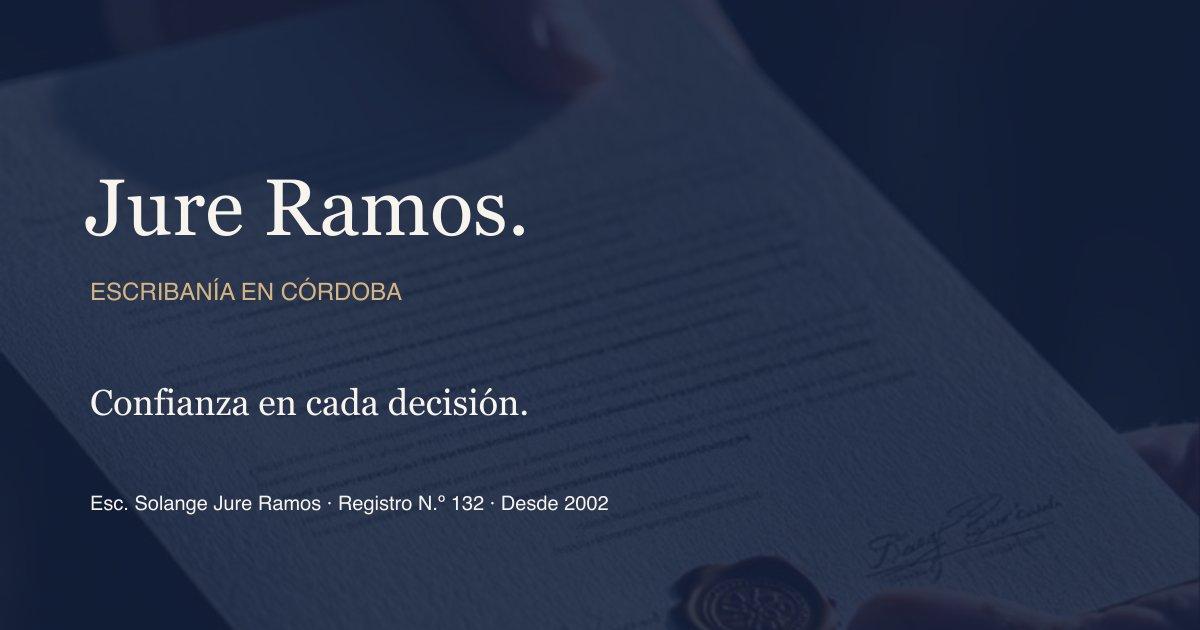
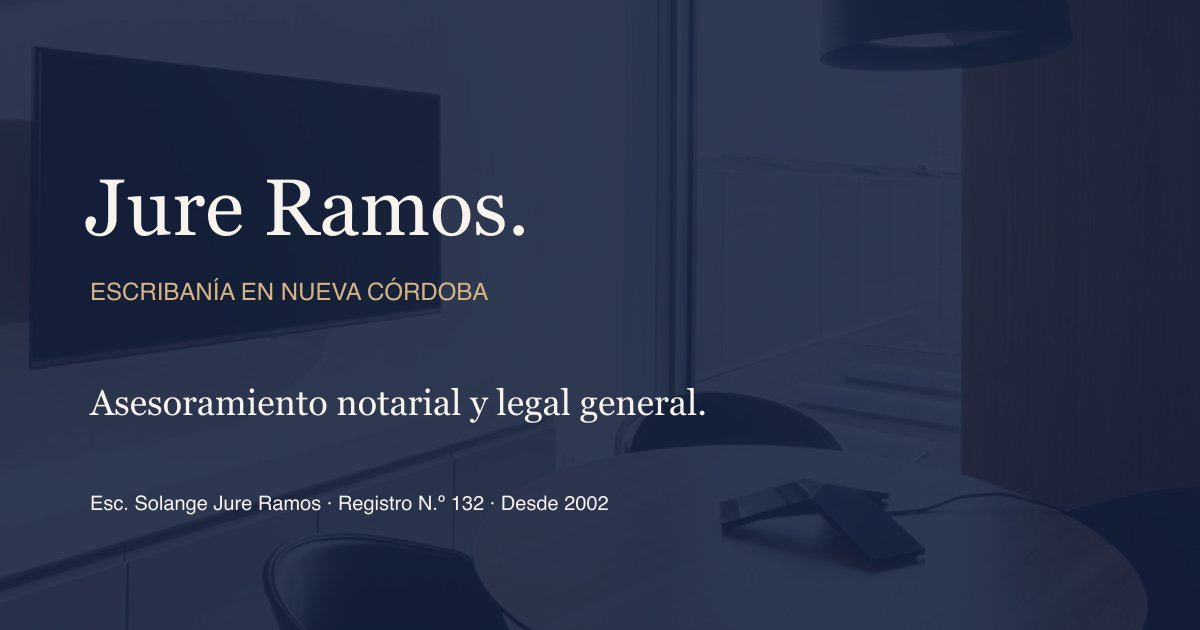
fix: integrar cambios de contenido y restaurar ejecución local

diff --git a/src/pages/index.md.ts b/src/pages/index.md.ts
@@ -1,5 +1,5 @@
 import { site } from '../config/site';
 export function GET() {
- const text = `# ${site.name}\n\nEscribanía en Córdoba. Inmuebles, certificaciones y asesoramiento societario, con atención personalizada desde 2002.\n\n## Titular\n\nEsc. ${site.person}. Registro Notarial N.º ${site.registration}.\n\n${site.credentials.map(c=>`- ${c}`).join('\n')}\n\n## Servicios\n\n${site.services.map(s=>`### ${s.title}\n\n${s.description}\n\n${s.items.map(i=>`- ${i}`).join('\n')}`).join('\n\n')}\n\n## Contacto y ubicación\n\n- Dirección: ${site.address}, ${site.postalCode}, Córdoba, Argentina.\n- Horario: ${site.hours}.\n- Teléfono: ${site.phone}.\n- WhatsApp: [${site.whatsapp}](${site.whatsappUrl}).\n- Email: ${site.email}.\n- [Cómo llegar](${site.maps}).\n\n## Preguntas frecuentes\n\n${site.faq.map(f=>`### ${f.q}\n\n${f.a}`).join('\n\n')}\n\nÚltima actualización: ${site.updated}.\n`;
+ const text = `# ${site.name}\n\nEscribanía en Nueva Córdoba. Asesoramiento notarial y legal general, con atención personalizada desde 2002.\n\n## Titular\n\nEsc. ${site.person}. Registro Notarial N.º ${site.registration}.\n\n${site.credentials.map(c=>`- ${c}`).join('\n')}\n\n## Servicios\n\n${site.services.map(s=>`### ${s.title}\n\n${s.description}\n\n${s.items.map(i=>`- ${i}`).join('\n')}`).join('\n\n')}\n\n## Contacto y ubicación\n\n- Dirección: ${site.address}, ${site.postalCode}, Córdoba, Argentina.\n- Horario: ${site.hours}.\n- Teléfono: ${site.phone}.\n- WhatsApp: [${site.whatsapp}](${site.whatsappUrl}).\n- Email: ${site.email}.\n- [Cómo llegar](${site.maps}).\n\n## Preguntas frecuentes\n\n${site.faq.map(f=>`### ${f.q}\n\n${f.a}`).join('\n\n')}\n\nÚltima actualización: ${site.updated}.\n`;
  return new Response(text, { headers: { 'Content-Type':'text/markdown; charset=utf-8' } });
 }

diff --git a/src/pages/llms.txt.ts b/src/pages/llms.txt.ts
@@ -1,2 +1,2 @@
 import { site } from '../config/site';
-export function GET() { return new Response(`# ${site.name}\n\n> Escribanía en Córdoba, Argentina. Esc. Solange Jure Ramos, Registro Notarial N.º 132, en ejercicio desde 2002. Asesoramiento notarial y legal general.\n\nAtención personalizada para particulares, empresas e inmobiliarias. Prioridad en inmuebles, certificaciones y asesoramiento societario. La documentación, costos y tiempos se consultan directamente con la escribanía.\n\n## Información de la escribanía\n\n- [Servicios, trayectoria y contacto](${site.url}/index.md): Contenido completo del sitio en Markdown, incluyendo dirección, horario y consultas frecuentes.\n`, { headers: { 'Content-Type':'text/plain; charset=utf-8' } }); }
+export function GET() { return new Response(`# ${site.name}\n\n> Escribanía en Nueva Córdoba, Argentina. Esc. Solange Jure Ramos, Registro Notarial N.º 132, en ejercicio desde 2002. Asesoramiento notarial y legal general.\n\nAtención personalizada para particulares, empresas e inmobiliarias. Prioridad en inmuebles, certificaciones y asesoramiento societario. La documentación, costos y tiempos se consultan directamente con la escribanía.\n\n## Información de la escribanía\n\n- [Servicios, trayectoria y contacto](${site.url}/index.md): Contenido completo del sitio en Markdown, incluyendo dirección, horario y consultas frecuentes.\n`, { headers: { 'Content-Type':'text/plain; charset=utf-8' } }); }

diff --git a/Decisiones.md b/Decisiones.md
@@ -106,3 +106,19 @@ Este archivo registra las decisiones tomadas y los cambios ejecutados desde el 1
 - Logo, autorización de las fotos conservadas, cargos y afiliaciones restantes y pin de Maps, según `PENDIENTES.md`.
 - Configurar Analytics y Search Console en una etapa posterior.
 - El envío a GitHub continúa bloqueado por la autenticación pendiente. Los cambios se guardan en un commit local.
+
+## 2026-10-13 — Integración de cambios y reanudación local
+
+### Decisiones y cambios ejecutados
+
+- Revisados el historial, las instrucciones y los cambios del compañero en el commit `61c309f`: FAQ reales, horarios diferenciados, servicios prioritarios y contacto por WhatsApp.
+- Resueltos cuatro conflictos de aplicación de cambios guardados en `src/components/Seo.astro`, `src/pages/index.astro`, `src/pages/index.md.ts` y `src/pages/llms.txt.ts`.
+- Conservados los horarios, credenciales, FAQ y enfoque de servicios del compañero, junto con la portada de oficina, el título «Escribanía en Nueva Córdoba» y el tono informativo solicitados directamente en este chat. La imagen generada de firma se conserva disponible como alternativa.
+- Conservados todos los demás cambios existentes, incluido el archivo ajeno a esta tarea en `outputs/`, sin incorporarlo al commit de integración.
+- Guardada una copia de los cuatro archivos con conflictos en `/private/tmp/escribania-conflictos-20261013` antes de editarlos. No se descartó el stash.
+
+### Verificaciones y ejecución
+
+- Compilación Astro correcta: 0 errores, 0 advertencias y 0 observaciones. Auditoría técnica existente correcta.
+- Servidor de desarrollo activo en `http://127.0.0.1:4321/`, usando Node 24 del runtime disponible, ya que el Node predeterminado es 22.16 y el proyecto requiere 22.19 o superior.
+- Envío a GitHub: se registrará el resultado tras guardar el commit de integración.

diff --git a/PENDIENTES.md b/PENDIENTES.md
@@ -2,7 +2,7 @@
 
 - **RECIBIDO — preguntas frecuentes reales:** la profesional suministró seis preguntas y respuestas el 13/10/2026. Se incorporaron con correcciones menores de redacción; queda su aprobación de la vista final.
 - **PENDIENTE — logo:** se usa un logotipo tipográfico. Se puede reemplazar cuando esté disponible el original en SVG, PDF o PNG de alta resolución.
-- **PENDIENTE — fotos:** confirmar autorización de uso del retrato y de la imagen de cierre antes de publicar. La nueva portada de una mujer firmando es una imagen ilustrativa generada, incorporada para revisión de la usuaria.
+- **PENDIENTE — fotos:** confirmar autorización de uso del retrato y de la imagen de cierre antes de publicar. La portada usa la foto de oficina suministrada en este chat. La imagen ilustrativa generada de una mujer firmando se conserva como alternativa para revisión.
 - **CONFIRMADO — doctorado:** la profesional confirmó el título de doctora en Derecho el 13/10/2026. Queda validar los demás cargos y afiliaciones antes de publicar.
 - **PENDIENTE — Google Maps:** se conserva el enlace suministrado. El mapa por clic apunta a las coordenadas del documento; verificar que coincida con la ubicación exacta y con la ficha del negocio.
 - Datos de contacto y paleta: tomados de la planificación suministrada. El usuario confirmó la paleta el 12/10/2026.

diff --git a/INFORME.md b/INFORME.md
@@ -50,3 +50,9 @@ Lighthouse 12.6.1 se ejecutó sobre la compilación estática en localhost, con 
 - `artifacts/lighthouse-mobile.report.html` y `.json`.
 
 La auditoría confirma la estructura del JSON-LD y su tipado, pero no sustituye una revisión externa en Schema.org o en herramientas de Google tras la publicación. No se hicieron envíos a servicios externos de validación ni se prometen resultados enriquecidos de FAQ.
+
+## Actualización de portada · 13/10/2026
+
+Título cambiado a «Escribanía en Nueva Córdoba» y descripción reducida a «Asesoramiento notarial y legal general». Se retiraron el eslogan de confianza, el texto vertical y la frase «Experiencia que da tranquilidad». El recuadro conserva únicamente «Atención personalizada desde el primer encuentro». Se reemplazó el certificado por la foto de oficina suministrada, con variantes AVIF/WebP. Se actualizaron los metadatos, Markdown y la imagen para compartir.
+
+Compilación y auditoría técnica correctas; revisión visual a 1440 y 390 px sin desbordes, con la nueva imagen cargada y los textos solicitados. Capturas: `artifacts/portada-actualizada-1440.png` y `artifacts/portada-actualizada-390.png`. Los puntajes Lighthouse anteriores corresponden a la revisión del 12/10/2026; no se repitió esa medición para este cambio de contenido.
